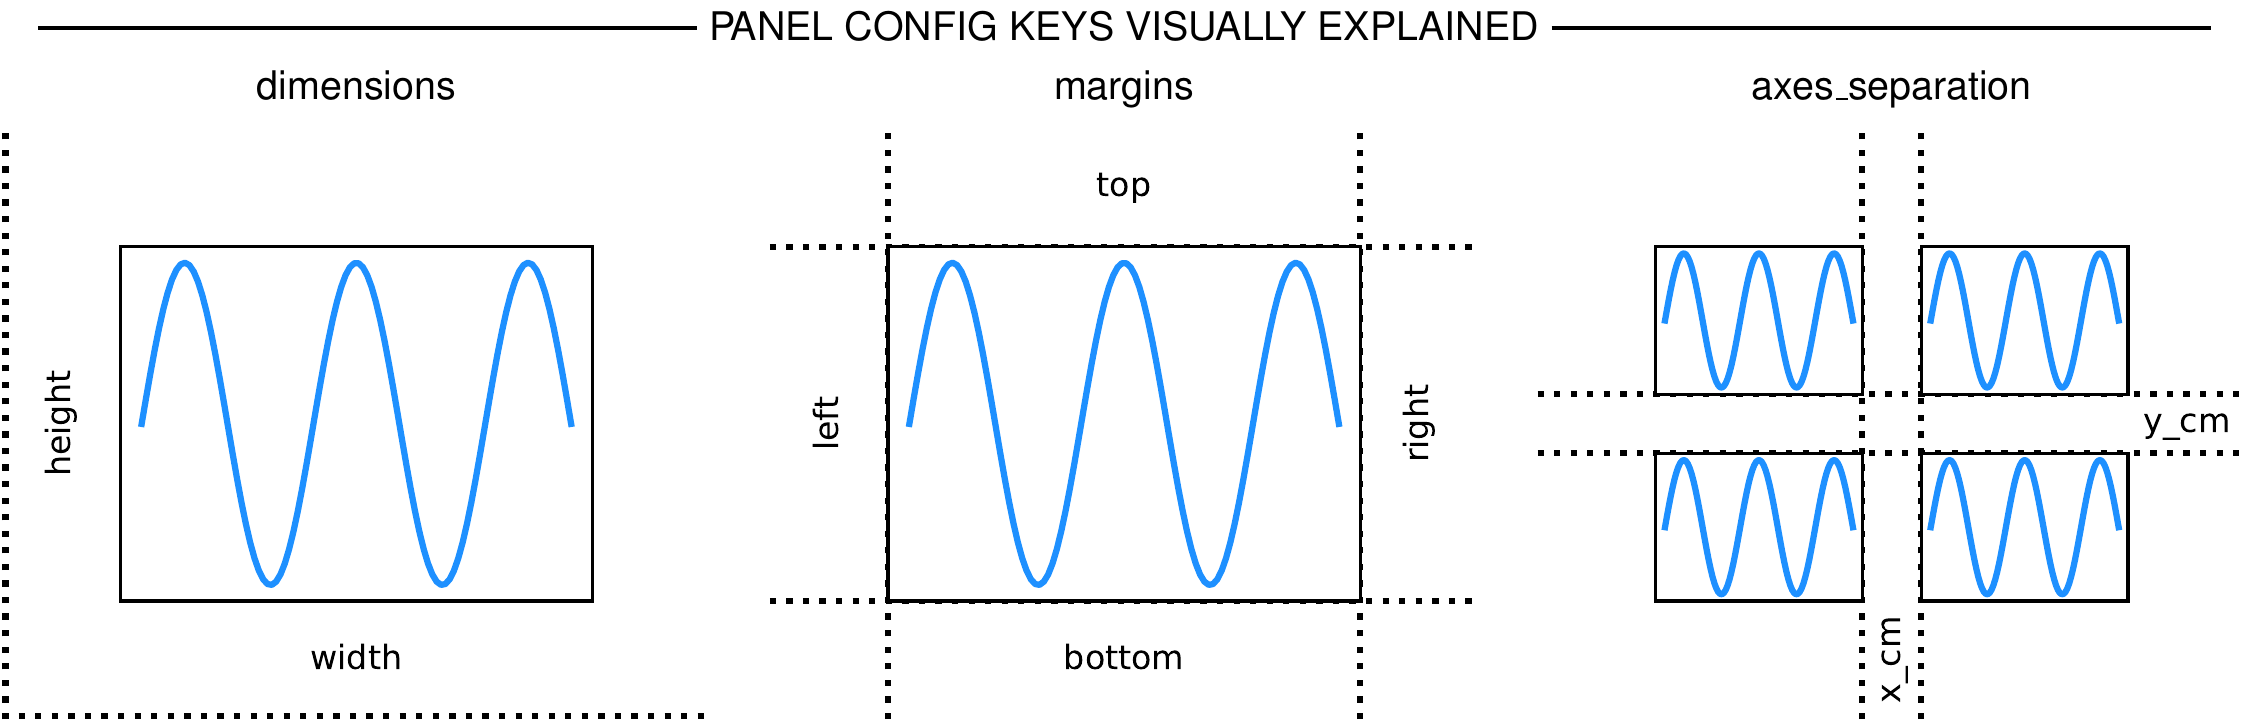
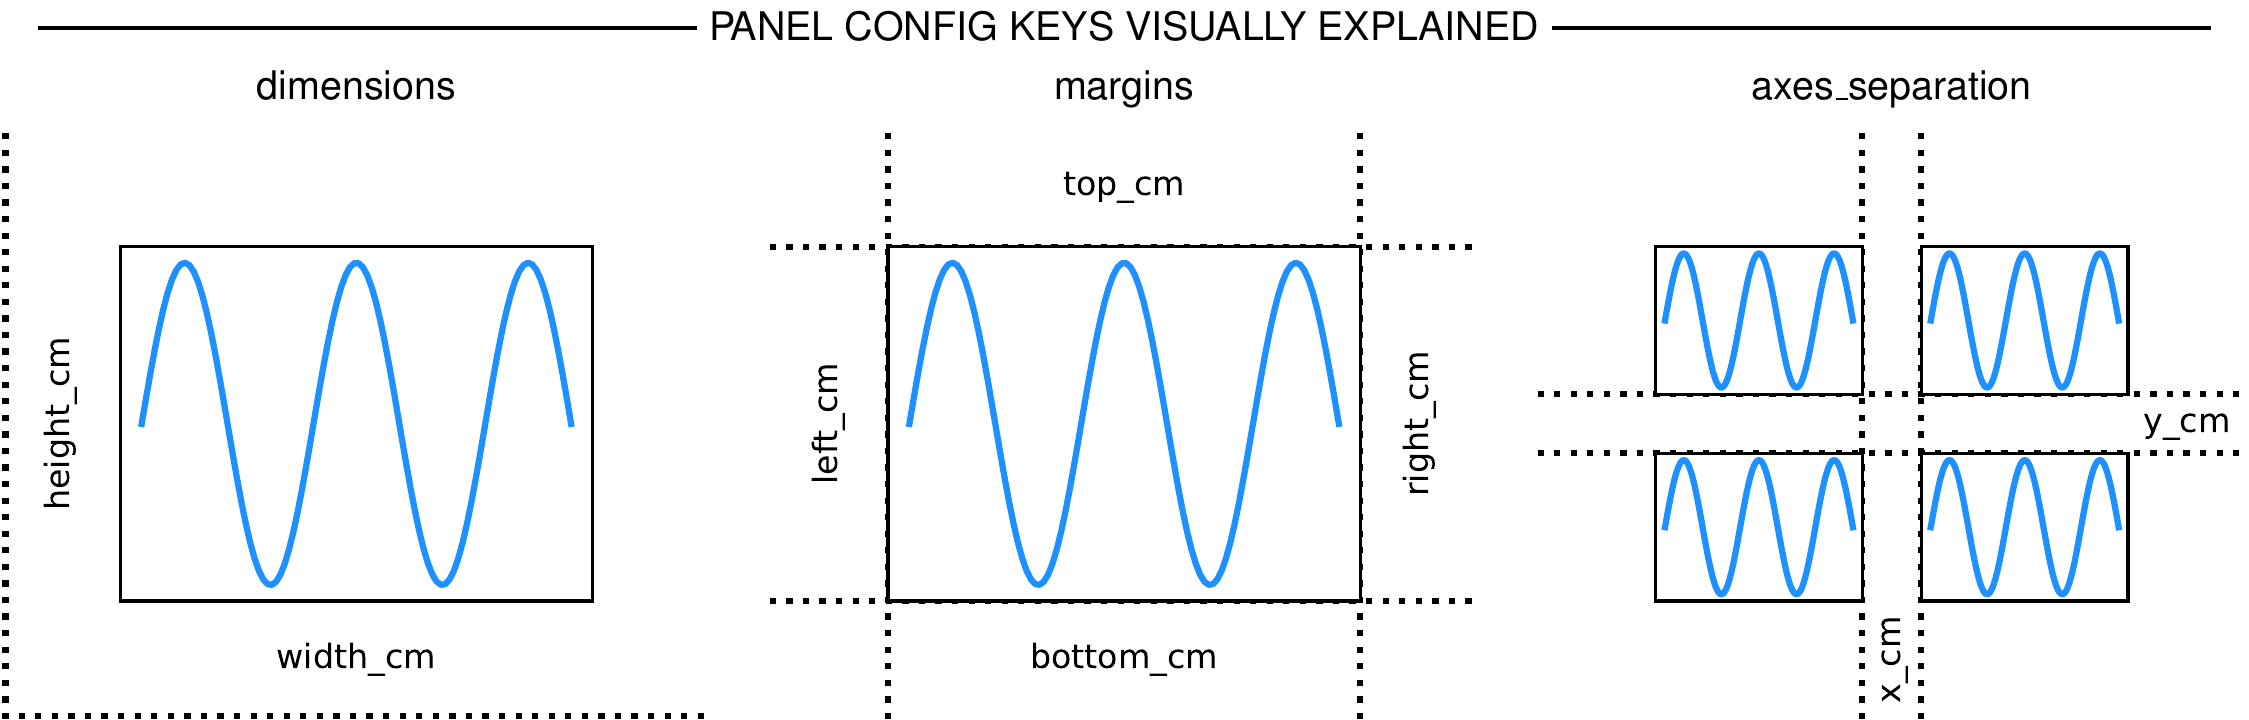
add minor correction to examples

diff --git a/examples/ex_2_config_visualization/create_panels.py b/examples/ex_2_config_visualization/create_panels.py
@@ -93,8 +93,8 @@ def create_dim_panel() -> None:
     padding_rel_x = cm_to_fig_rel(fig, margin / 2, "width")
     padding_rel_y = cm_to_fig_rel(fig, margin / 2, "height")
 
-    fig.text(0.5, padding_rel_y, "width", ha="center", va="center")
-    fig.text(padding_rel_x, 0.5, "height", rotation=90, ha="center", va="center")
+    fig.text(0.5, padding_rel_y, "width_cm", ha="center", va="center")
+    fig.text(padding_rel_x, 0.5, "height_cm", rotation=90, ha="center", va="center")
 
     panel_path = output_dir / "panels" / "dim_panel"
     mpb.save_panel(fig, str(panel_path))
@@ -136,13 +136,13 @@ def create_margin_panel() -> None:
         [0, 1], [1 - top_margin_rel, 1 - top_margin_rel], ":", color=config_color
     )
 
-    fig.text(0.5, bottom_margin_rel / 2, "bottom", ha="center", va="center")
-    fig.text(0.5, 1 - top_margin_rel / 2, "top", ha="center", va="center")
-    fig.text(left_margin_rel / 2, 0.5, "left", rotation=90, ha="center", va="center")
+    fig.text(0.5, bottom_margin_rel / 2, "bottom_cm", ha="center", va="center")
+    fig.text(0.5, 1 - top_margin_rel / 2, "top_cm", ha="center", va="center")
+    fig.text(left_margin_rel / 2, 0.5, "left_cm", rotation=90, ha="center", va="center")
     fig.text(
         1 - right_margin_rel / 2,
         0.5,
-        "right",
+        "right_cm",
         rotation=90,
         ha="center",
         va="center",
